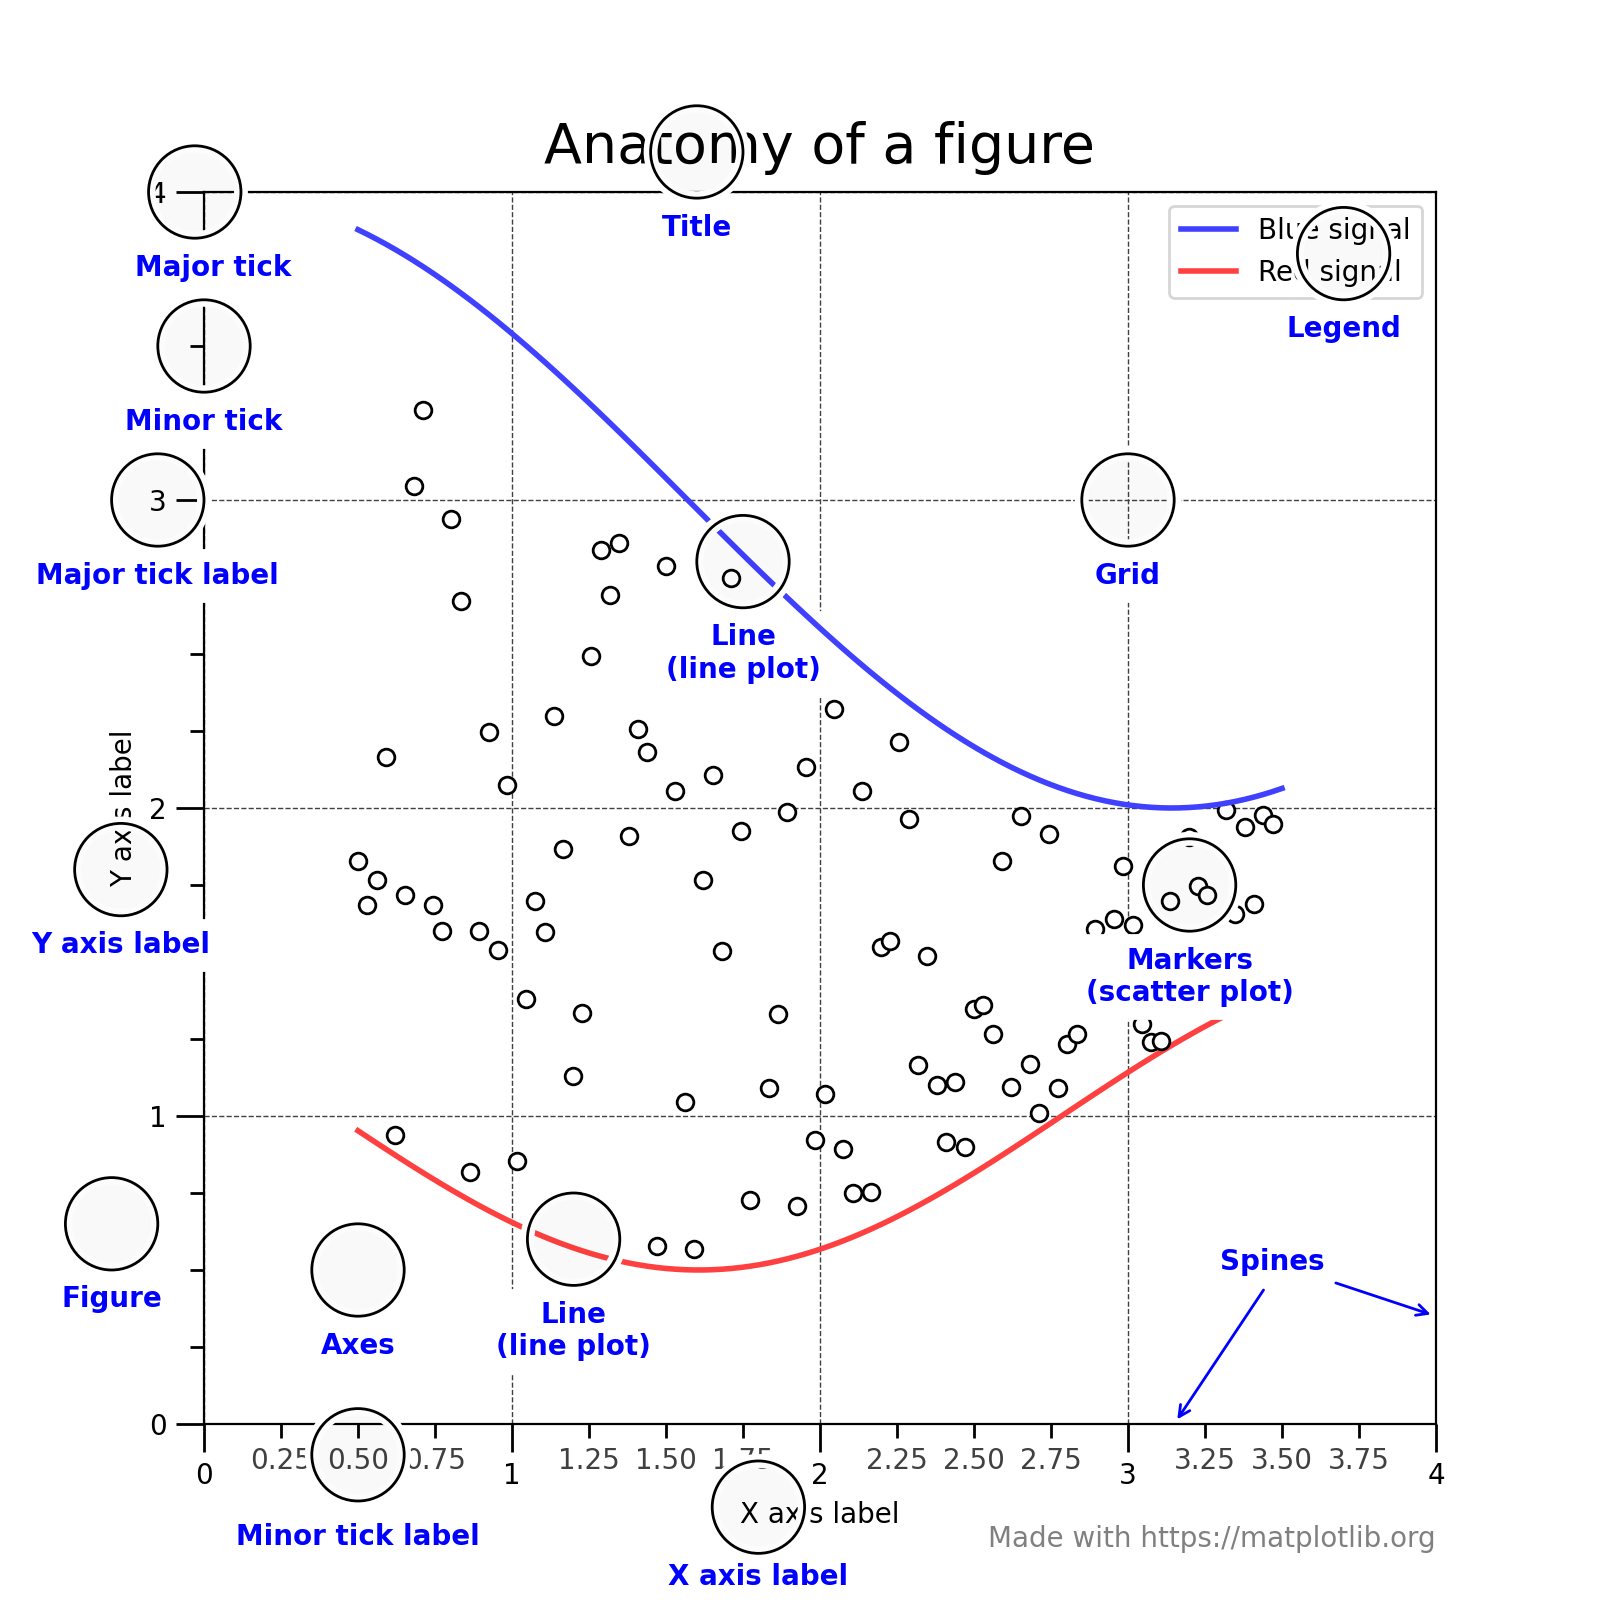
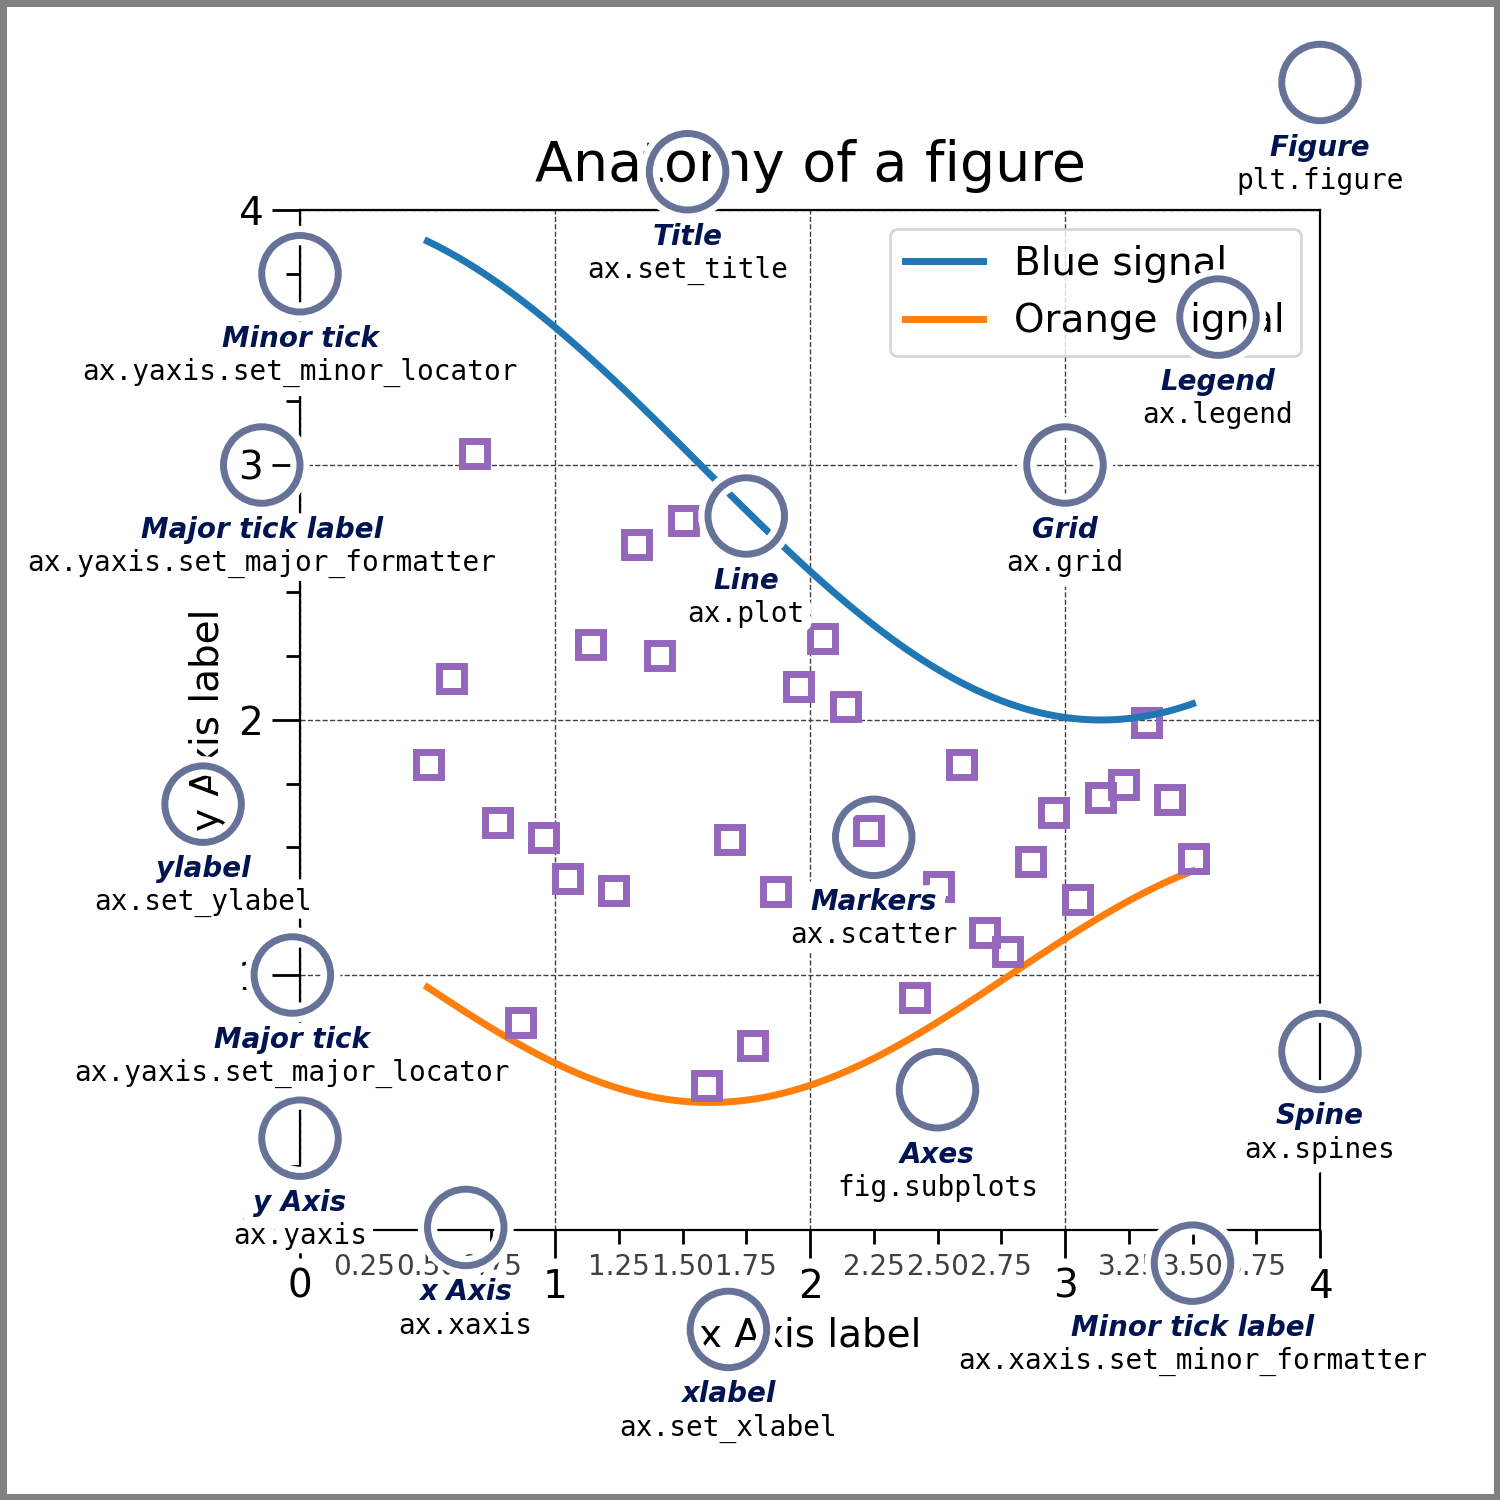
Improve formatting of "Anatomy of a figure"
- Adapt margins
- Reduce figure border width (still thick but not massive)
- fontfamily: make code monospace
- slightly move annotations to better places

diff --git a/examples/showcase/anatomy.py b/examples/showcase/anatomy.py
@@ -25,9 +25,8 @@ Y1 = 3+np.cos(X)
 Y2 = 1+np.cos(1+X/0.75)/2
 Y3 = np.random.uniform(Y1, Y2, len(X))
 
-fig = plt.figure(figsize=(8, 8))
-marg = 0.15
-ax = fig.add_axes([marg, marg, 1-1.8*marg, 1-1.8*marg], aspect=1)
+fig = plt.figure(figsize=(7.5, 7.5))
+ax = fig.add_axes([0.2, 0.17, 0.68, 0.7], aspect=1)
 
 ax.xaxis.set_major_locator(MultipleLocator(1.000))
 ax.xaxis.set_minor_locator(AutoMinorLocator(4))
@@ -53,49 +52,54 @@ ax.plot(X[::3], Y3[::3], linewidth=0, markersize=9,
 ax.set_title("Anatomy of a figure", fontsize=20, verticalalignment='bottom')
 ax.set_xlabel("x Axis label", fontsize=14)
 ax.set_ylabel("y Axis label", fontsize=14)
-
 ax.legend(loc="upper right", fontsize=14)
 
 
 # Annotate the figure
 
-def annotate(x, y, text, code, radius=0.15):
+def annotate(x, y, text, code):
     # Circle marker
-    c = Circle((x, y), radius, clip_on=False, zorder=10, linewidth=2.5,
+    c = Circle((x, y), radius=0.15, clip_on=False, zorder=10, linewidth=2.5,
                edgecolor=royal_blue + [0.6], facecolor='none',
-               path_effects=[withStroke(linewidth=7, foreground=(1, 1, 1, 1))])
+               path_effects=[withStroke(linewidth=7, foreground='white')])
     ax.add_artist(c)
 
-    ax.text(x, y-0.2, text, zorder=100,
-            ha='center', va='top', weight='bold', color=royal_blue,
-            style='italic', fontfamily='monospace',
-            path_effects=[withStroke(linewidth=7, foreground=(1, 1, 1, 1))])
+    # use path_effects as a background for the texts
+    # draw the path_effects and the colored text separately so that the
+    # path_effects cannot clip other texts
+    for path_effects in [[withStroke(linewidth=7, foreground='white')], []]:
+        color = 'white' if path_effects else royal_blue
+        ax.text(x, y-0.2, text, zorder=100,
+                ha='center', va='top', weight='bold', color=color,
+                style='italic', fontfamily='Courier New',
+                path_effects=path_effects)
 
-    ax.text(x, y-0.33, code, zorder=100,
-            ha='center', va='top', weight='normal', color='0.0',
-            fontfamily='Courier New', fontsize='medium',
-            path_effects=[withStroke(linewidth=7, foreground=(1, 1, 1, 1))])
+        color = 'white' if path_effects else 'black'
+        ax.text(x, y-0.33, code, zorder=100,
+                ha='center', va='top', weight='normal', color=color,
+                fontfamily='monospace', fontsize='medium',
+                path_effects=path_effects)
 
 
-annotate(3.25, -0.10, "Minor tick label", "ax.xaxis.set_minor_formatter")
-annotate(-0.03, 1.05, "Major tick", "ax.yaxis.set_major_locator")
+annotate(3.5, -0.13, "Minor tick label", "ax.xaxis.set_minor_formatter")
+annotate(-0.03, 1.0, "Major tick", "ax.yaxis.set_major_locator")
 annotate(0.00, 3.75, "Minor tick", "ax.yaxis.set_minor_locator")
 annotate(-0.15, 3.00, "Major tick label", "ax.yaxis.set_major_formatter")
-annotate(1.90, -0.32, "xlabel", "ax.set_xlabel")
-annotate(-0.27, 1.68, "ylabel", "ax.set_ylabel")
-annotate(1.58, 4.13, "Title", "ax.set_title")
+annotate(1.68, -0.39, "xlabel", "ax.set_xlabel")
+annotate(-0.38, 1.67, "ylabel", "ax.set_ylabel")
+annotate(1.52, 4.15, "Title", "ax.set_title")
 annotate(1.75, 2.80, "Line", "ax.plot")
 annotate(2.25, 1.54, "Markers", "ax.scatter")
 annotate(3.00, 3.00, "Grid", "ax.grid")
-annotate(3.60, 3.65, "Legend", "ax.legend")
+annotate(3.60, 3.58, "Legend", "ax.legend")
 annotate(2.5, 0.55, "Axes", "fig.subplots")
-annotate(4.185, 4.3, "Figure", "plt.figure")
+annotate(4, 4.5, "Figure", "plt.figure")
 annotate(0.65, 0.01, "x Axis", "ax.xaxis")
-annotate(0, 0.44, "y Axis", "ax.yaxis")
+annotate(0, 0.36, "y Axis", "ax.yaxis")
 annotate(4.0, 0.7, "Spine", "ax.spines")
 
 # frame around figure
-fig.patch.set(linewidth=10, edgecolor='0.5')
+fig.patch.set(linewidth=4, edgecolor='0.5')
 plt.show()
 
 
